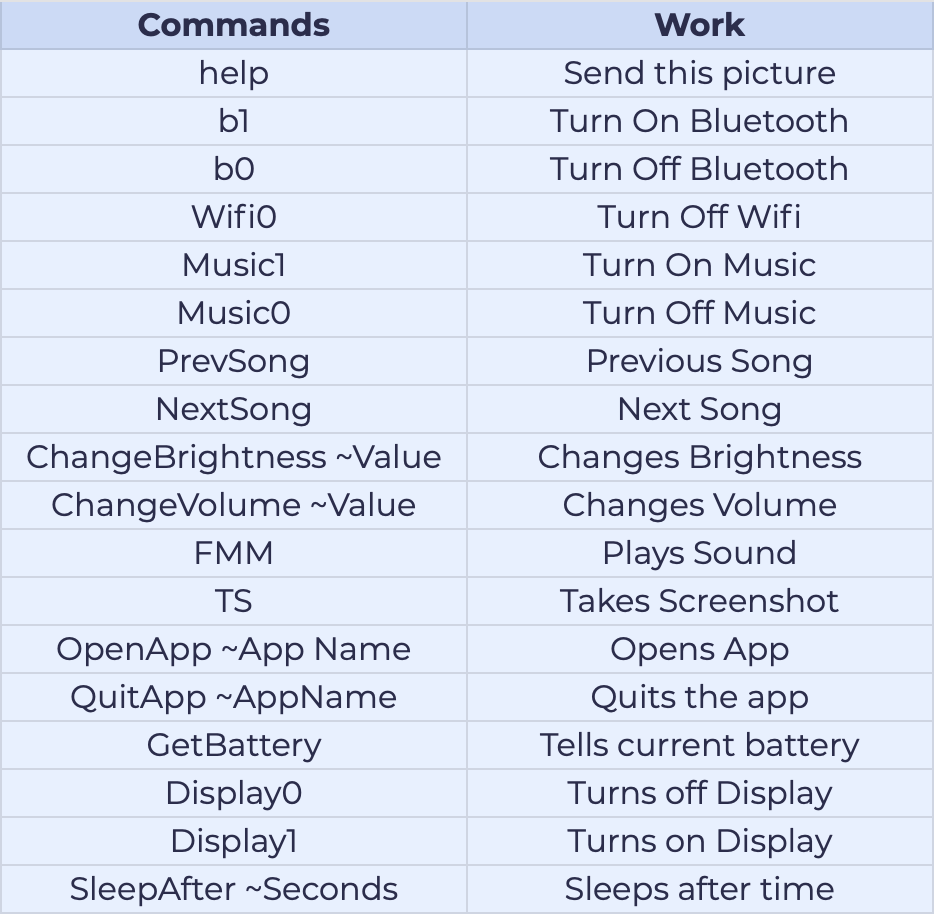
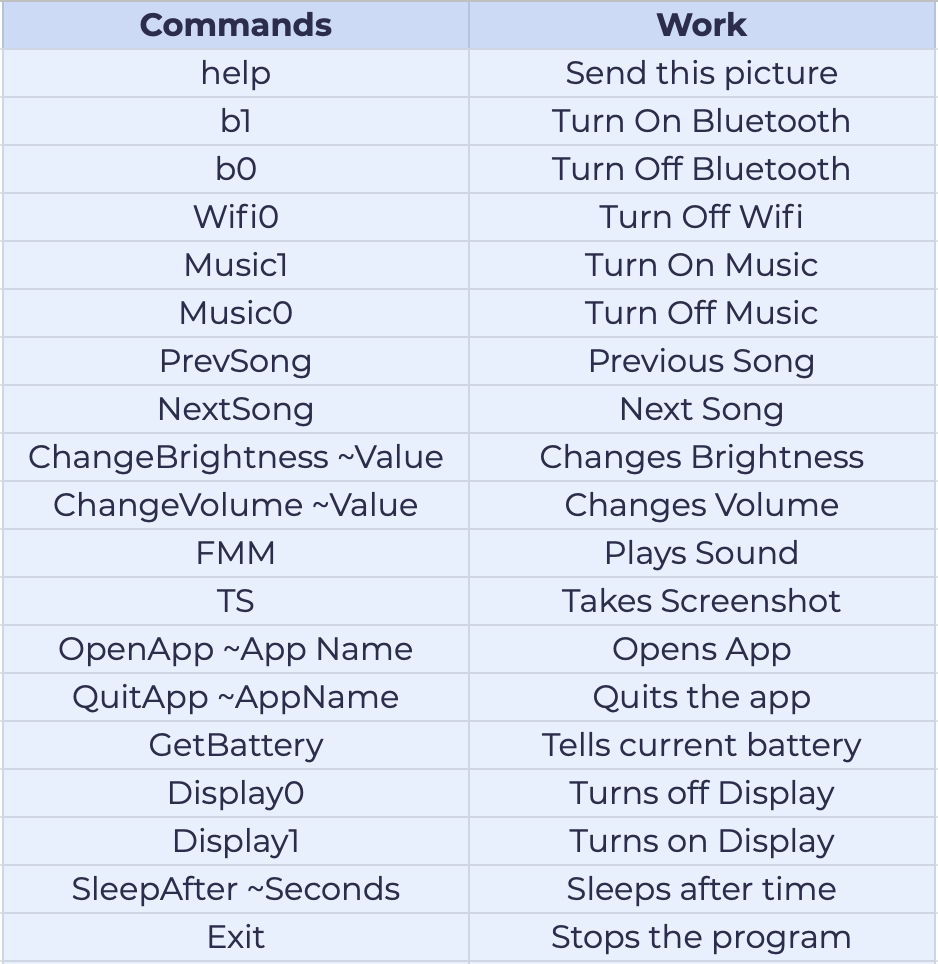
Add Exit Command, Sqlite3 Error Handling  & Improved Code

Changed region(s): [[0.0, 0.0, 1.0, 1.0]]

diff --git a/main.py b/main.py
@@ -34,7 +34,6 @@ if contents == "Running For First Time":
     os.system('clear')
     checkFile.write("\n" + password + "\n")
     checkFile.write(phone + "\n")
-    print("Running")
 
 else:
     print(art)
@@ -42,9 +41,12 @@ else:
         credentials = f.read().splitlines()
     password = credentials[1]
     phone = credentials[2]
-    print("\n****** Running ******")
 
 checkFile.close()
+
+print("\n****** Running ******\n")
+print("\niMessage your Mac with 'yourPassword <Space> Help' to get the available commands\n")
+print("\niMessage your Mac with 'yourPassword <Space> Exit' to Exit the program\n")
 
 # Checks the latest Message for Command
 
@@ -140,6 +142,9 @@ def check_message(msg, row):
         Automation_Commands.sleepSchedule(value, final_Path)
         Automation_Commands.revertState(cur, conn, row)
 
+    elif "exit" in msg:
+        exit()
+
     else:
         print("Command Not Found")
         Automation_Commands.revertState(cur, conn, row)
@@ -151,8 +156,13 @@ def check_message(msg, row):
 while True:
 
     #-------- initialising chat.db ---------
+    try:
+        conn = sqlite3.connect(fr'/Users/{username}/Library/Messages/chat.db')
+    except sqlite3.OperationalError:
+        print("\n--Permission denied--\n\nTerminal needs to have full disk access for IMMAT to work.\n\nTo give full disk access to terminal :-\n\n1) Go to System Preferences\n\n2)Go to Security and privacy\n\n3) Click on Privacy Tab\n\n4) Scroll down to 'Full Disk Access\n\n5) Click on the Lock below\n\n6) Enter the password\n\n7) If Terminal is present on the right side then enable the full disk acces by clicking the checkmark\n\n8) Else click on plus (+) and add Terminal to the list'")
+        print("\n\nReRun IMMAT after performing the steps\n")
+        break
 
-    conn = sqlite3.connect(fr'/Users/{username}/Library/Messages/chat.db')
     cur = conn.cursor()
 
     # -------- Getting Messages ---------

diff --git a/scripts_other/Automation_Commands.py b/scripts_other/Automation_Commands.py
@@ -8,7 +8,7 @@ def helpCommand(iPhoneNumber,path):
     os.system(f"osascript {path}appleScripts/help.applescript {filePath} {iPhoneNumber}")
 
 def revertState(cursor, db, row):
-    sql = f"UPDATE message SET text = 'ns' WHERE ROWID = '{row}'"
+    sql = f"UPDATE message SET text = 'Command Replaced' WHERE ROWID = '{row}'"
     cursor.execute(sql)
     db.commit()
 

diff --git a/readme.md b/readme.md
@@ -91,7 +91,7 @@ This will reply you with the screenshot of the Mac.
 
 These are the available commands :-
 
-<img width="467" alt="Help" src="https://user-images.githubusercontent.com/42001064/117529945-33c17a00-aff8-11eb-8530-57f49f346265.png">
+<img width="467" alt="Help" src="https://user-images.githubusercontent.com/42001064/117623025-e88e9f00-b190-11eb-9f3c-b90dc9ac3249.png">
 
 ## 💠 MacOS Demo
 
